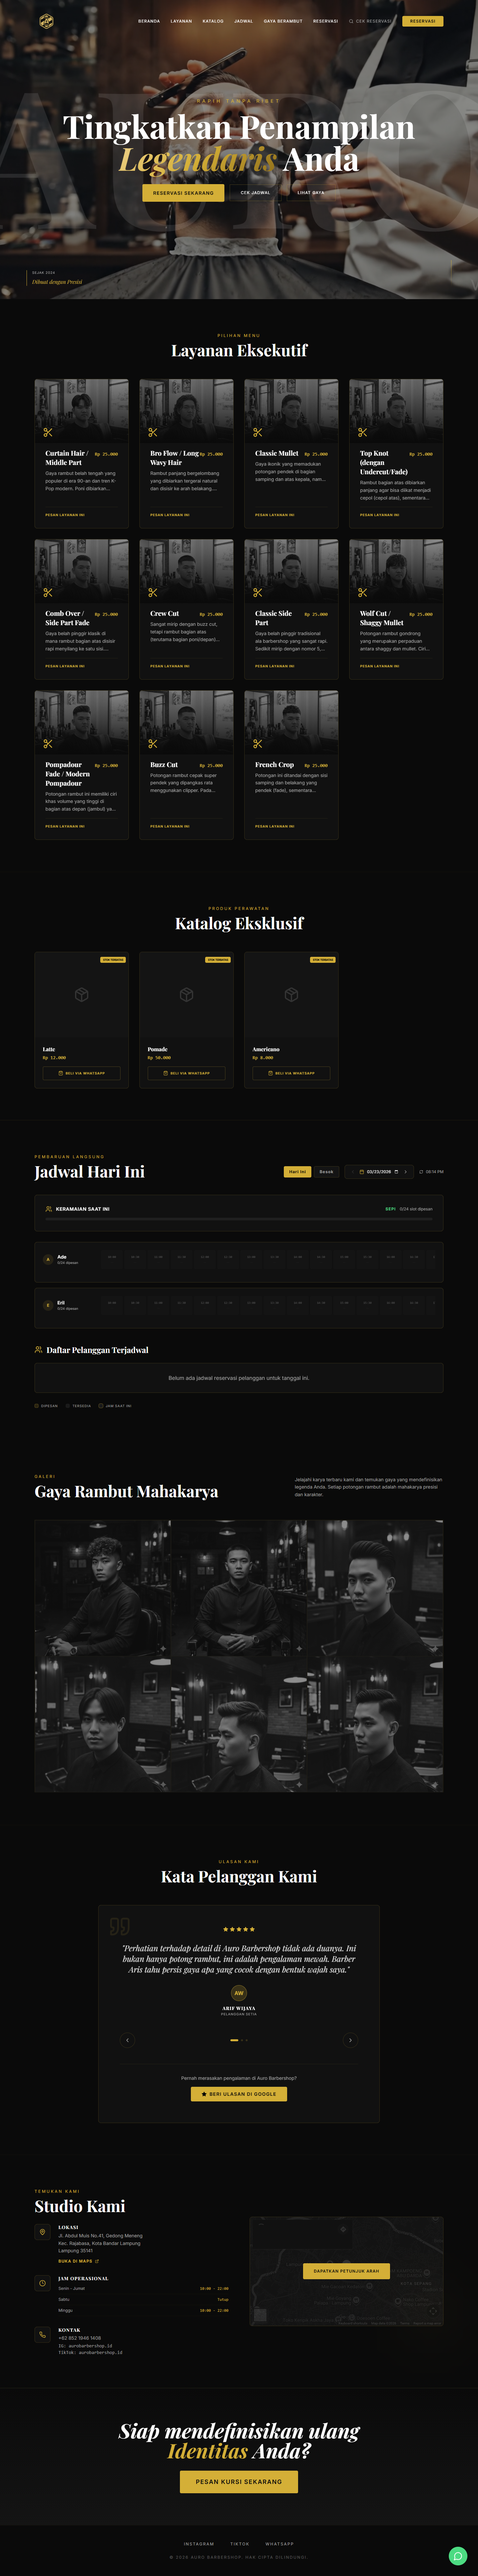
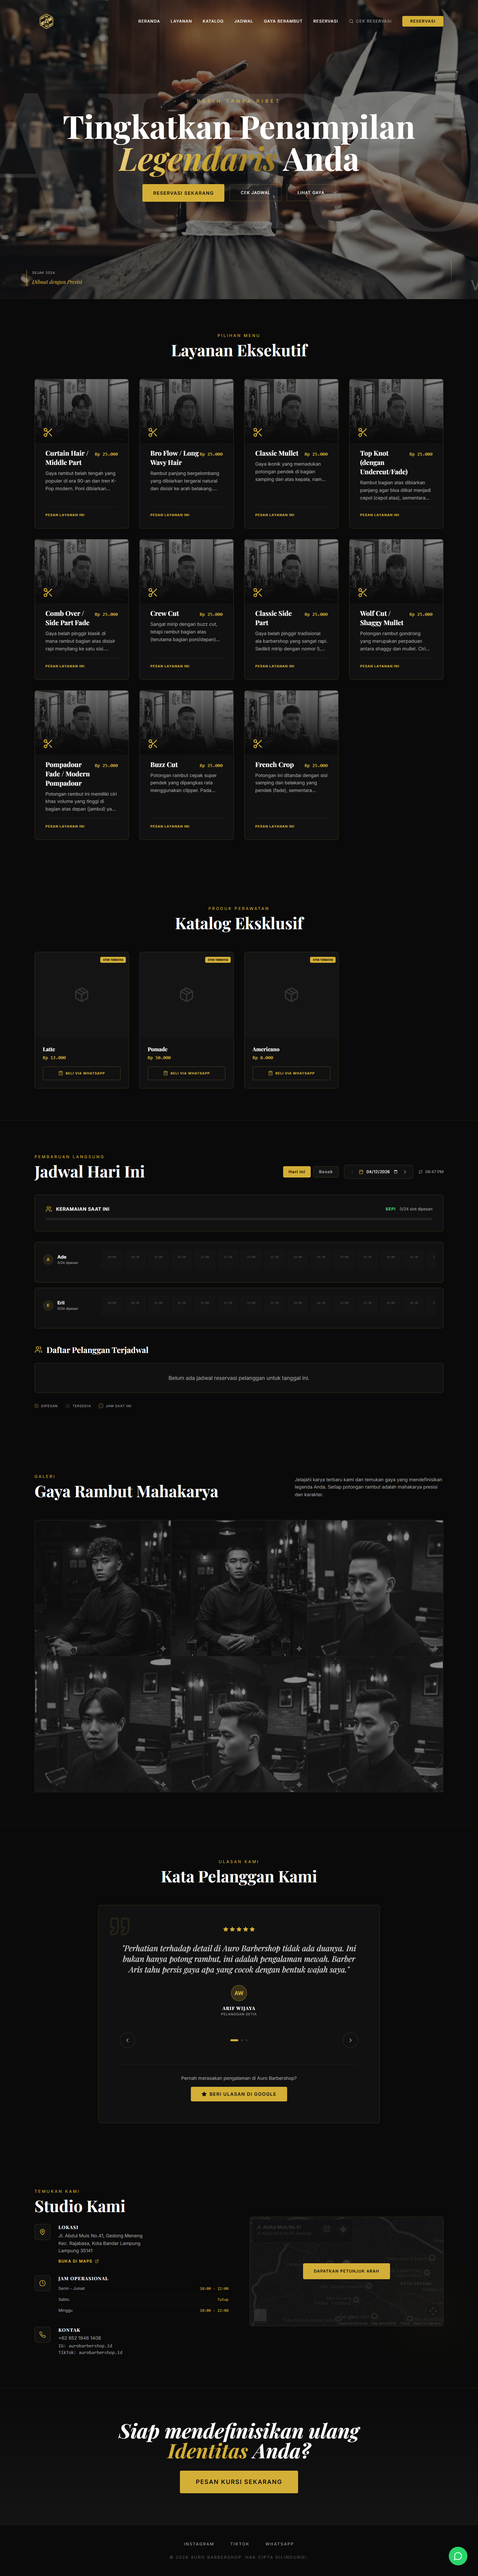
update porto

Changed region(s): [[0.0, 0.0, 1.0, 0.1249], [0.9375, 0.9679, 0.9688, 0.9991]]

diff --git a/src/data/projects.js b/src/data/projects.js
@@ -1,6 +1,9 @@
 import putrakaryaImg from '../assets/portfolio/putrakarya.png';
 import aurobarbersImg from '../assets/portfolio/aurobarbers.png';
 import bimbelWebImg from '../assets/portfolio/bimbel_web.png';
+import clinicImg from '../assets/portfolio/clinic.png';
+import rentalImg from '../assets/portfolio/rental.png';
+import bakeryImg from '../assets/portfolio/bakery.png';
 
 export const projects = [
   {
@@ -32,5 +35,35 @@ export const projects = [
     challenge: "Lembaga bimbingan belajar yang membutuhkan landing page dengan konversi tinggi untuk program penerimaan siswa baru.",
     solution: "Desain UI modern yang menonjolkan fitur unggulan, testimoni, dan bagian CTA yang kuat untuk pendaftaran kelas langsung.",
     techStack: ["React", "Framer Motion", "Tailwind CSS"]
+  },
+  {
+    id: 4,
+    title: "KlinikSehat",
+    category: "Healthcare & Reservation",
+    url: "https://doni-wahyudi.github.io/web_clinic/#/",
+    image: clinicImg,
+    challenge: "Pasien seringkali kesulitan menemukan fasilitas kesehatan modern yang menyediakan informasi dokter spesialis yang transparan dan proses booking yang cepat.",
+    solution: "Kami membangun portal kesehatan dengan sistem reservasi online terintegrasi, profil dokter lengkap, dan integrasi WhatsApp untuk dukungan pasien instan.",
+    techStack: ["React", "Bootstrap", "Health-Tech SEO", "Responsive Design"]
+  },
+  {
+    id: 5,
+    title: "RentalKu",
+    category: "Transportation & Car Rental",
+    url: "https://doni-wahyudi.github.io/web_rental/",
+    image: rentalImg,
+    challenge: "Pasar penyewaan mobil yang terfragmentasi seringkali menyulitkan pelanggan dalam menemukan layanan yang terpercaya dengan harga transparan dan kendaraan yang terawat.",
+    solution: "Landing page konversi tinggi dengan katalog armada yang elegan, sistem booking WhatsApp sekali klik, dan detail layanan profesional untuk kebutuhan harian maupun acara khusus.",
+    techStack: ["Vite", "React", "Modern Fleet UI", "Mobile-First Design"]
+  },
+  {
+    id: 6,
+    title: "Sweet Delights Bakery",
+    category: "Food & Beverage",
+    url: "https://doni-wahyudi.github.io/web_bakery/",
+    image: bakeryImg,
+    challenge: "Toko kue lokal yang memiliki produk estetik seringkali kesulitan menampilkan visual produk mereka secara digital sehingga melewatkan potensi pesanan online.",
+    solution: "Desain web yang mengutamakan visual produk (appetizing design) with katalog menu yang terorganisir dan CTA pemesanan langsung yang memudahkan konversi pelanggan.",
+    techStack: ["React", "High-Fidelity Imagery", "Animated UI", "F&B Marketing"]
   }
 ];

diff --git a/capture_portfolio.js b/capture_portfolio.js
@@ -4,7 +4,10 @@ import puppeteer from 'puppeteer';
   const websites = [
     { url: 'https://putrakaryapallet.com/', filename: 'putrakarya.png' },
     { url: 'https://aurobarbers.web.id/', filename: 'aurobarbers.png' },
-    { url: 'https://doni-wahyudi.github.io/bimbel_web/', filename: 'bimbel_web.png' }
+    { url: 'https://doni-wahyudi.github.io/bimbel_web/', filename: 'bimbel_web.png' },
+    { url: 'https://doni-wahyudi.github.io/web_clinic/#/', filename: 'clinic.png' },
+    { url: 'https://doni-wahyudi.github.io/web_rental/', filename: 'rental.png' },
+    { url: 'https://doni-wahyudi.github.io/web_bakery/', filename: 'bakery.png' }
   ];
 
   console.log('Launching browser...');

diff --git a/index.html b/index.html
@@ -2,7 +2,7 @@
 <html lang="en">
   <head>
     <meta charset="UTF-8" />
-    <link rel="icon" type="image/svg+xml" href="/favicon.svg" />
+    <link rel="icon" type="image/png" href="/favicon.png" />
     <meta name="viewport" content="width=device-width, initial-scale=1.0" />
     <title>WeBuildPremium | Jasa Pembuatan Website Profesional</title>
     <meta name="description" content="Tingkatkan omset bisnis Anda dengan website profesional & elegan dari WeBuildPremium. Garansi kepuasan 100%, gratis domain, dan hosting." />

diff --git a/src/components/Footer.jsx b/src/components/Footer.jsx
@@ -10,7 +10,9 @@ const Footer = () => {
       <div className="container footer-grid">
         <div className="footer-about">
           <Link to="/" className="logo">
-            <span className="logo-icon">▲</span>
+            <span className="logo-icon">
+              <img src="/favicon.png" alt="WeBuildPremium Logo" />
+            </span>
             <span className="logo-text">WeBuild<span className="text-gradient">Premium</span></span>
           </Link>
           <p className="footer-desc">

diff --git a/src/components/Header.jsx b/src/components/Header.jsx
@@ -23,7 +23,9 @@ const Header = () => {
     <header className={`header ${isScrolled ? 'scrolled glass' : ''}`}>
       <div className="container header-container">
         <Link to="/" className="logo">
-          <span className="logo-icon">▲</span>
+          <span className="logo-icon">
+            <img src="/favicon.png" alt="WeBuildPremium Logo" />
+          </span>
           <span className="logo-text">WeBuild<span className="text-gradient">Premium</span></span>
         </Link>
 

diff --git a/src/components/Header.css b/src/components/Header.css
@@ -30,9 +30,18 @@
 }
 
 .logo-icon {
-  color: var(--primary);
-  font-size: 1.25rem;
-  animation: pulse-glow 3s infinite;
+  width: 32px;
+  height: 32px;
+  object-fit: contain;
+  display: flex;
+  align-items: center;
+}
+
+.logo-icon img {
+  width: 100%;
+  height: 100%;
+  object-fit: contain;
+  filter: drop-shadow(0 0 8px rgba(0, 102, 255, 0.3));
 }
 
 .nav-links {
